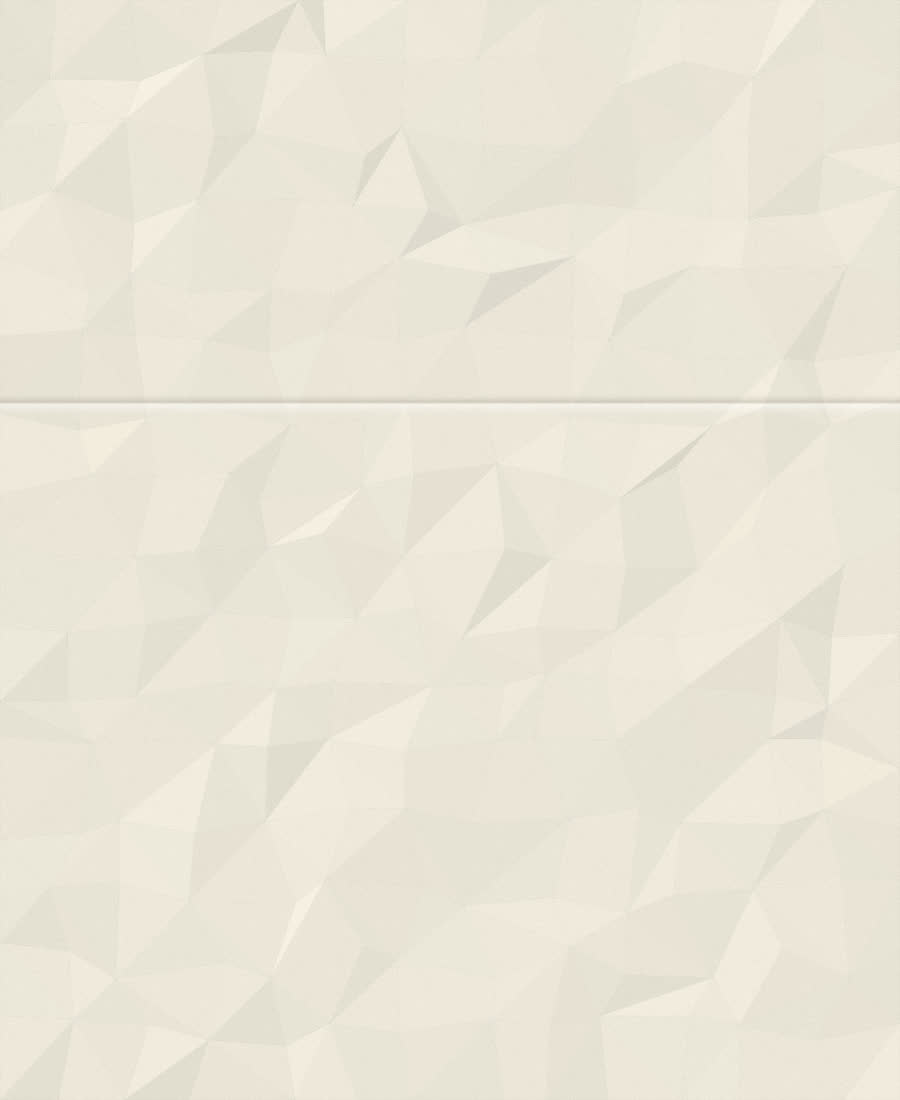
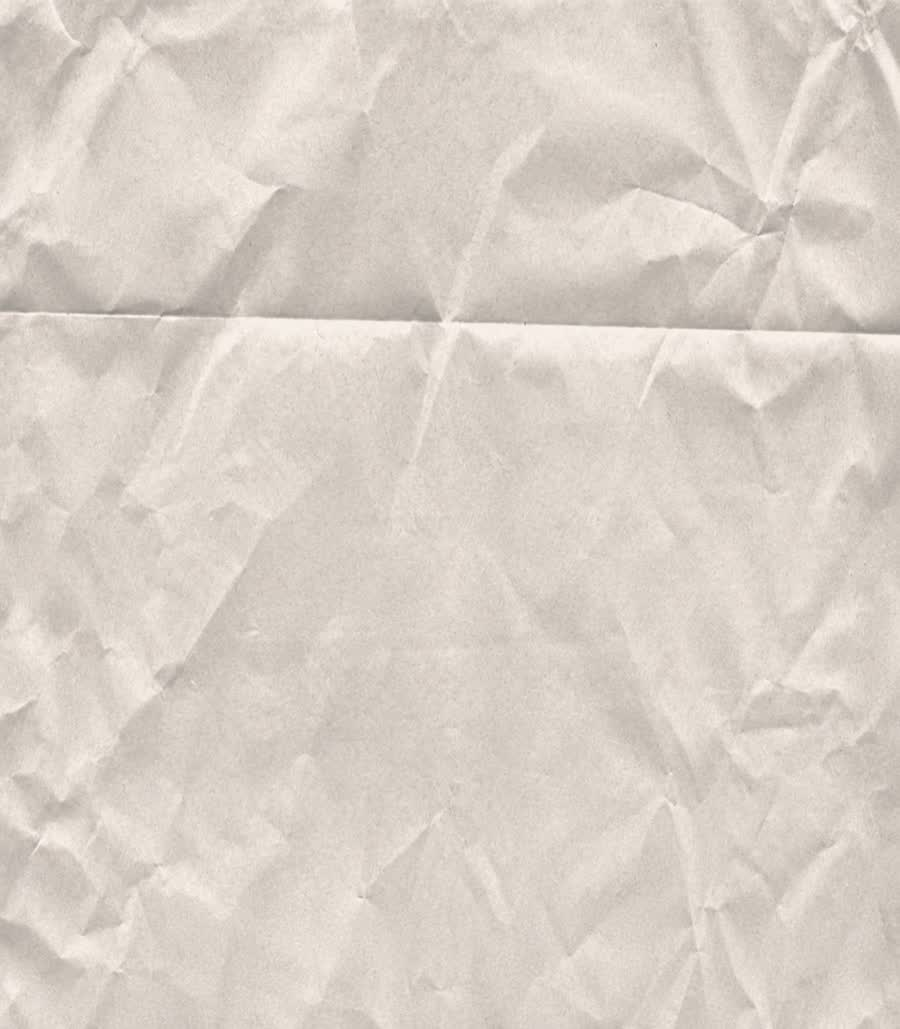
Use Faris's real crumpled paper photo for the note and pile slips
The photographed texture he saved replaces the generated mesh (scaled
to 900w, 41KB), with a warm paper wash layered on top so its cool
grey sits inside the site's palette. Applied to the course note and
the two textured slips in the first-open paper pile. Verified at
390px Arabic on the built bundle.

diff --git a/artifacts/plotzy/src/components/mobile/CourseCoverMobile.tsx b/artifacts/plotzy/src/components/mobile/CourseCoverMobile.tsx
@@ -22,14 +22,15 @@ function Circled({ children }: { children: React.ReactNode }) {
   );
 }
 
-/* The crumpled note: a real faceted-crease paper texture behind the ink. */
+/* The crumpled note: Faris's real crumpled-paper photo behind the ink,
+   with a warm paper wash so it sits in the site's palette. */
 function CourseNote({ ar }: { ar: boolean }) {
   return (
     <div
       dir={ar ? "rtl" : "ltr"}
       style={{
         position: "relative",
-        backgroundImage: "url(/images/crumpled-paper.jpg)",
+        backgroundImage: "linear-gradient(rgba(246,240,226,0.4), rgba(246,240,226,0.4)), url(/images/crumpled-paper.jpg)",
         backgroundSize: "cover",
         backgroundPosition: "center",
         border: "1px solid rgba(66,53,33,0.16)",

diff --git a/artifacts/plotzy/src/components/mobile/PaperPile.tsx b/artifacts/plotzy/src/components/mobile/PaperPile.tsx
@@ -142,7 +142,9 @@ export function PaperPile({ ar }: { ar: boolean }) {
               width: `${s.w}%`,
               maxWidth: 360,
               padding: "20px 22px",
-              background: s.texture ? "url(/images/crumpled-paper.jpg) center / cover" : "#fffdf7",
+              background: s.texture
+                ? "linear-gradient(rgba(246,240,226,0.4), rgba(246,240,226,0.4)), url(/images/crumpled-paper.jpg) center / cover"
+                : "#fffdf7",
               border: "1px solid rgba(66,53,33,0.16)",
               borderRadius: 6,
               boxShadow: "0 18px 40px -12px rgba(41,33,21,0.45)",